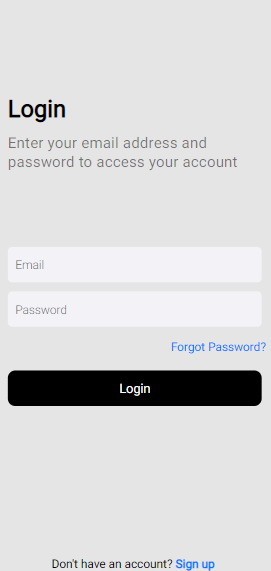
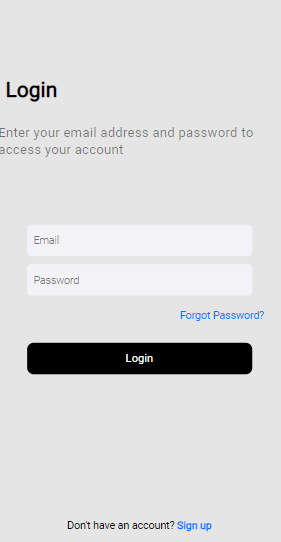
add photo and adjusted css

diff --git a/styles.css b/styles.css
@@ -5,6 +5,14 @@
     font-family: 'Roboto', sans-serif;
     background-color: #E5E5E5;
 }
+
+.container {
+    display: block;
+    margin-left: auto;
+    margin-right: auto;
+    width: 440px;
+}
+
 h1 {
     margin-top: 128px;
     margin-left: 16px;
@@ -16,19 +24,19 @@ h1 {
 
 .paragraph-01 {
     color: rgba(0, 0, 0, 0.5);
-    margin-top: 12px;
-    margin-left: 16px;
     font-style: normal;
     font-size: 20px;
     line-height: 26px;
     letter-spacing: 0.41px;
     margin-bottom: 102px;
+    margin-top: 30px;
+    margin-left: 5px;
 }
 
 input {
     display: block;
-    margin-bottom: 12px;
-    margin-left: 16px;
+    margin-right: auto;
+    margin-left: auto;
     background: #F2F2F7;
     border-radius: 6px;
     width: 343px;
@@ -36,6 +44,7 @@ input {
     border: none;
     font-weight: 300;
     font-size: 16px;
+    margin-bottom: 12px;
 }
 
 .input::placeholder {
@@ -44,8 +53,9 @@ input {
 
 a {
     display: block;
-    margin-top: 17px;
-    margin-left: 236px;
+    text-align: end;
+    margin-right: 30px;
+    margin-top: 20px;
     cursor: pointer;
     text-decoration: none;
     color: #007AFF;
@@ -55,8 +65,10 @@ a {
 
 button {
     color:#FFFFFF;
-    margin-top: 20px;
-    margin-left: 16px;
+    display: block;
+    margin-top: 30px;
+    margin-left: auto;
+    margin-right: auto;
     background-color: #000000;
     width:343px;
     height:48px;
@@ -71,8 +83,8 @@ button {
     font-weight: 500;
     font-size: 16px;
     line-height: 19px;
-    margin-top: 204px;
-    margin-left: 75px;
+    text-align: center;
+    margin-top: 220px;
 }
 
 strong {
